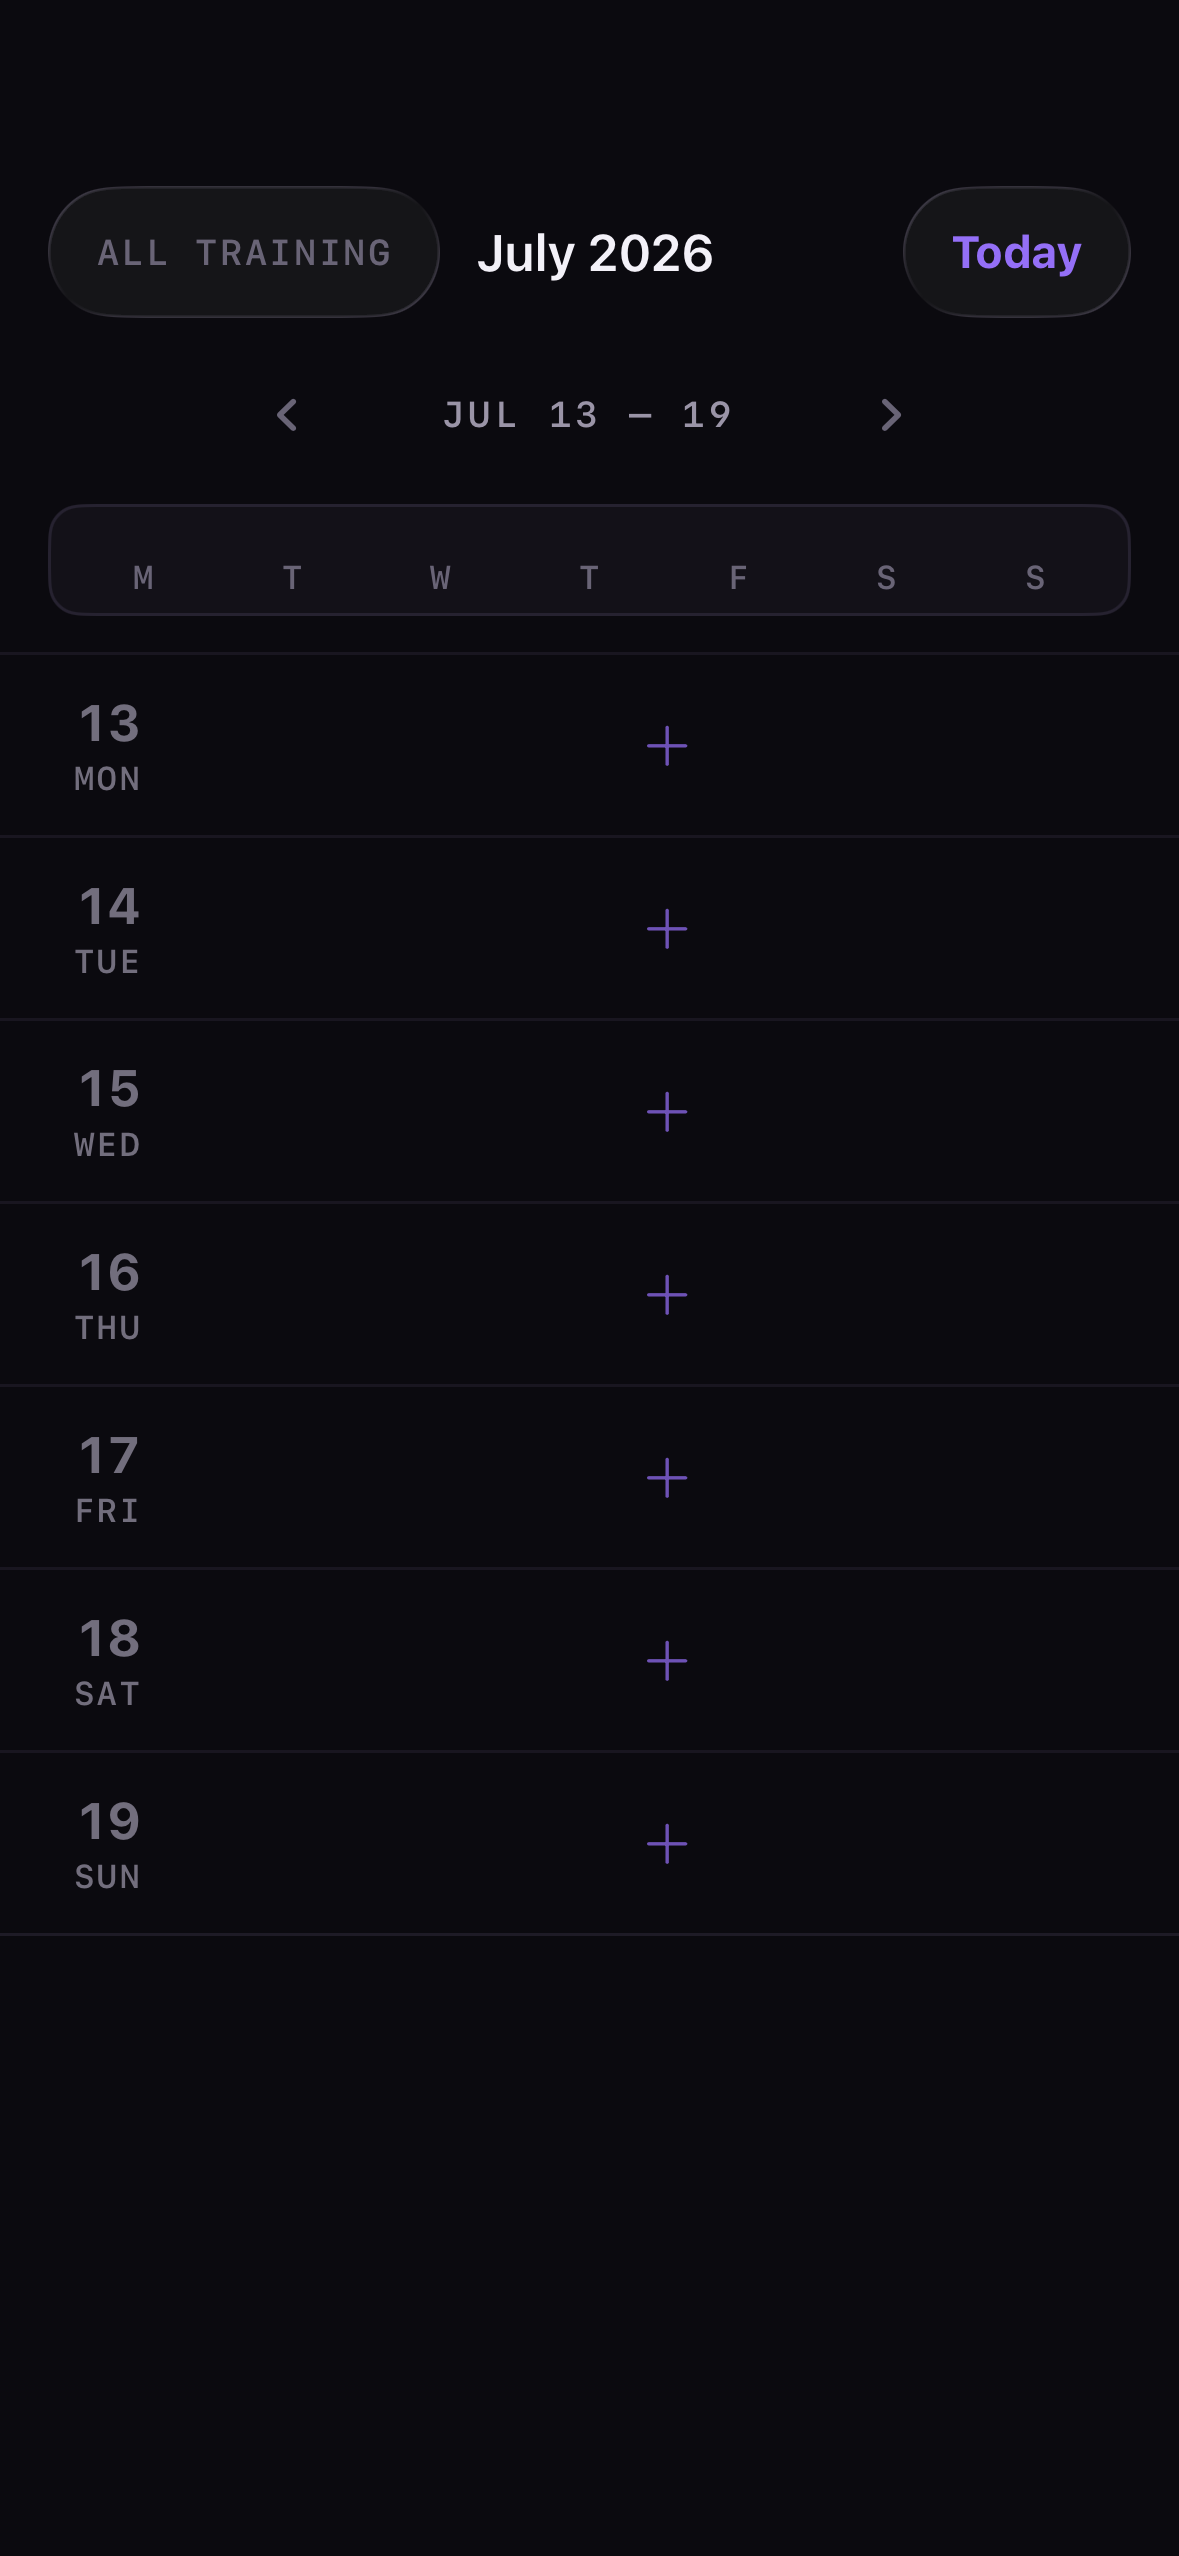
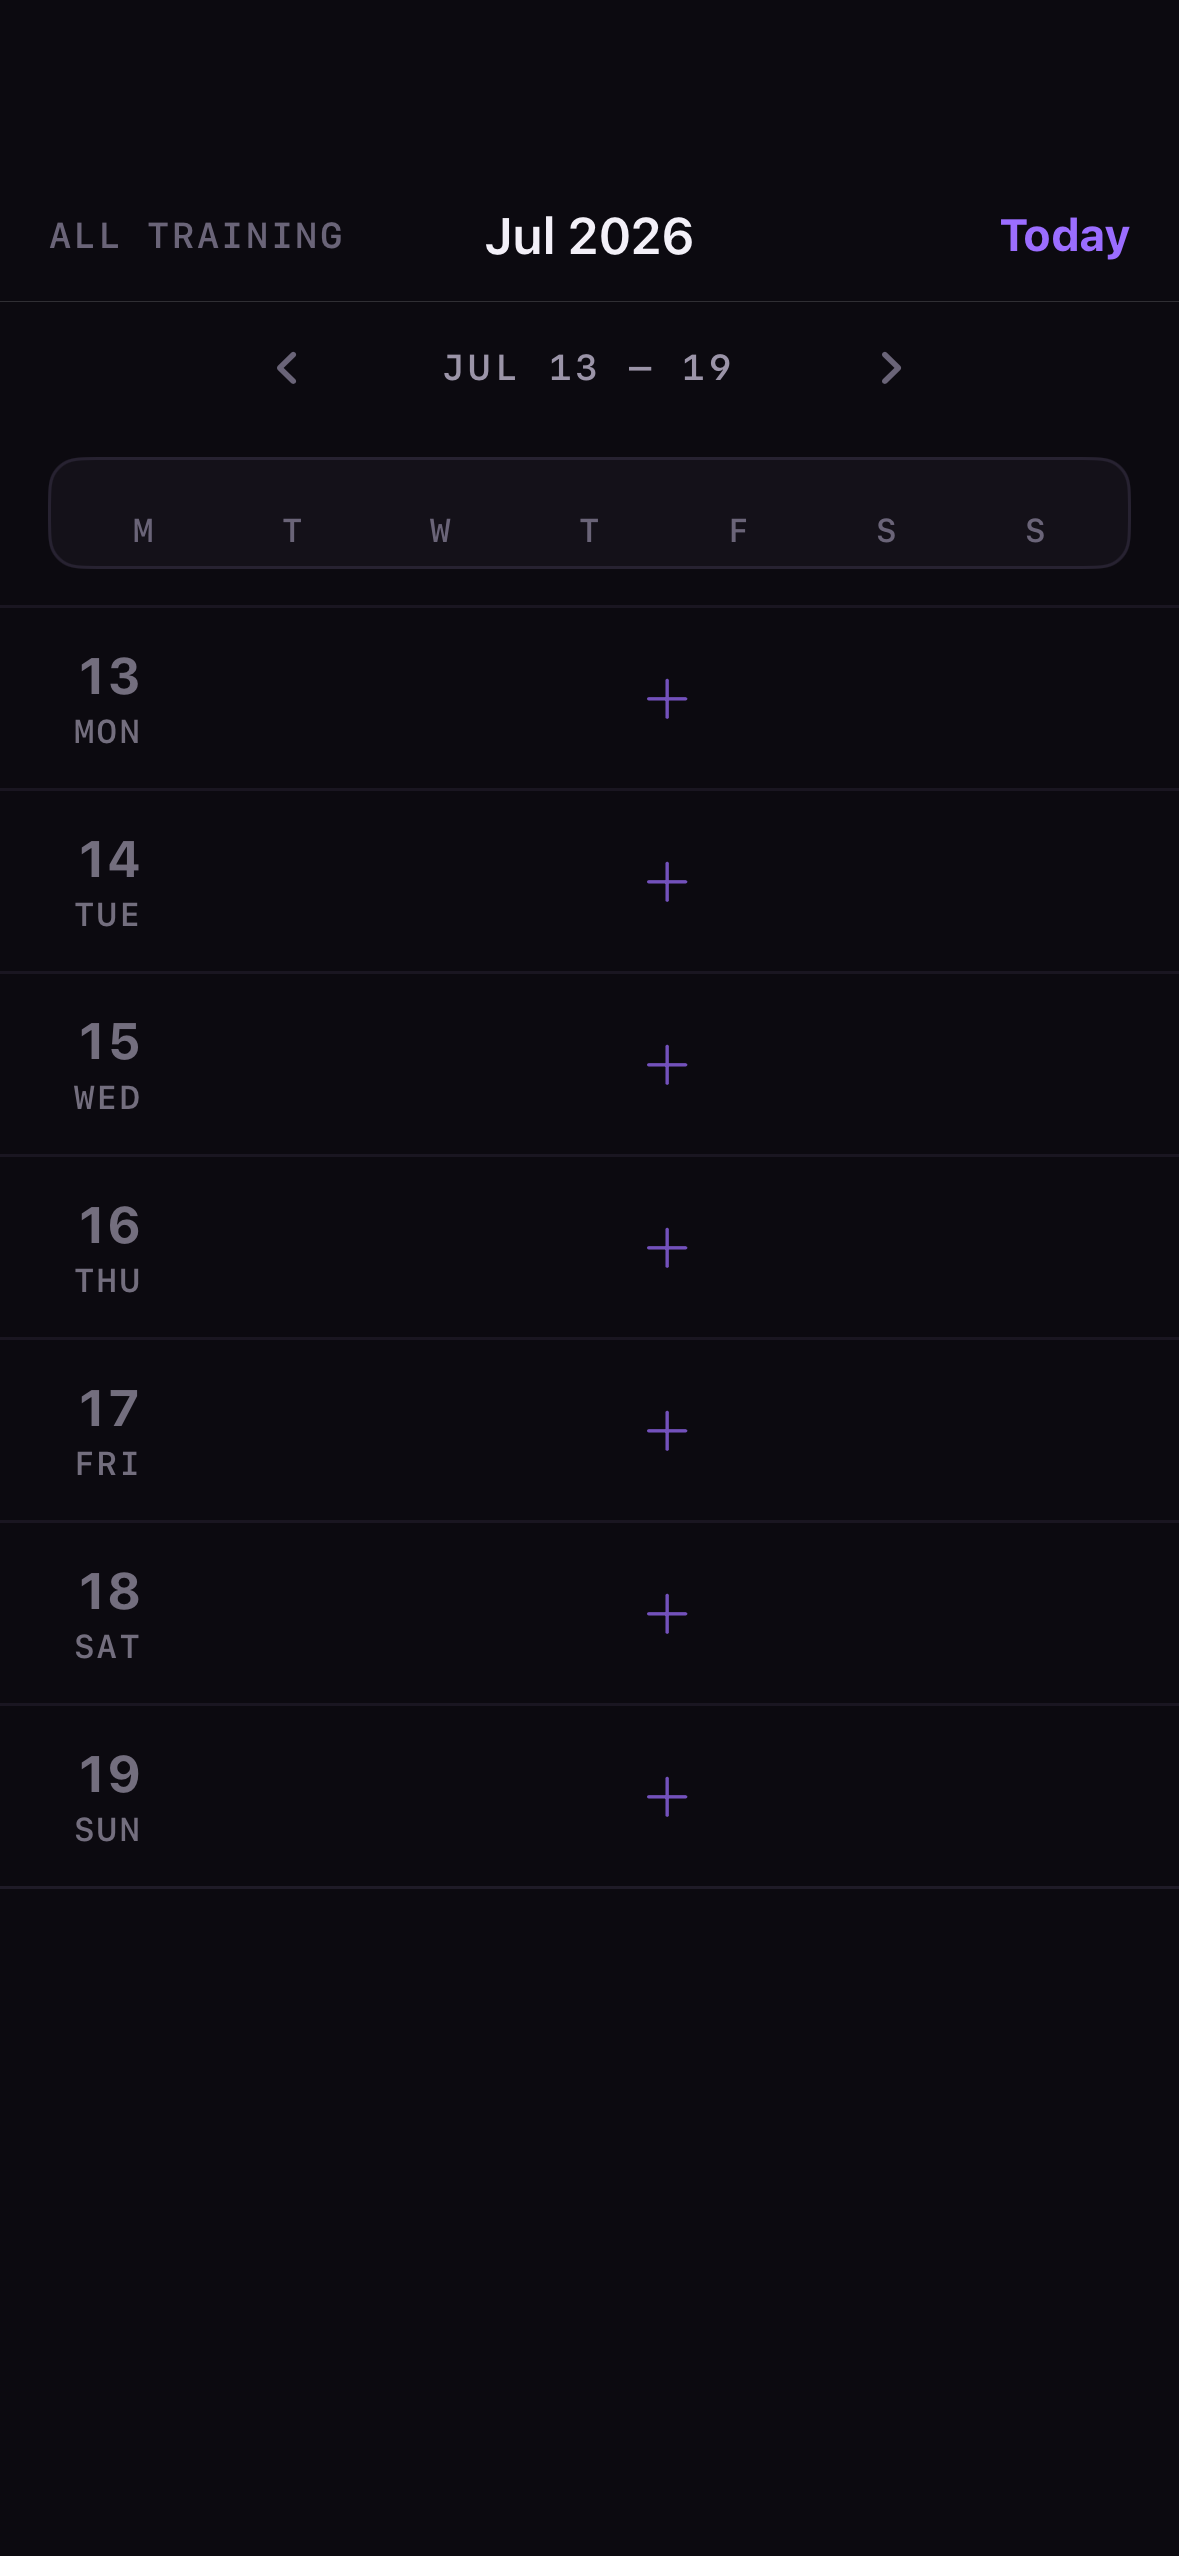
no-mistakes(review): carry visible week across rollover, shorten month label

diff --git a/BaselineTests/PlanWeeklyViewRenderTests.swift b/BaselineTests/PlanWeeklyViewRenderTests.swift
@@ -117,9 +117,10 @@ struct PlanWeeklyViewRenderTests {
         #expect(screen.element(labelled: "JUL 20 – 26") != nil, "The same week is still on screen")
     }
 
-    /// `PlanStore.week` is what "this week" means to the agent, so crossing a week boundary has to
-    /// re-anchor it - without silently paging the week the athlete chose to look at.
-    @Test func crossingIntoANewWeekReanchorsTheStoresWeekButNotTheVisibleOne() async throws {
+    /// An app left resident on the current week and foregrounded the next week must land on the real
+    /// current week - not strand the athlete on last week's grid with no day marked today - and
+    /// `PlanStore.week`, which is what "this week" means to the agent, has to follow the clock too.
+    @Test func crossingIntoANewWeekCarriesForwardAWeekTheAthleteNeverPagedAwayFrom() async throws {
         let screen = try PlanWeekScreen()
         defer { screen.tearDown() }
         try await screen.settleUntil { screen.element(labelled: "JUL 20 – 26") != nil }
@@ -128,11 +129,34 @@ struct PlanWeeklyViewRenderTests {
 
         screen.advanceClock(byDays: 7)
 
+        try await screen.settleUntil { screen.element(labelled: "JUL 27 – AUG 2") != nil }
+        #expect(screen.element(labelled: "Wednesday, today") != nil, "Today is marked again")
+        #expect(screen.count(labelled: "Add workout") == 7, "The whole new week is undecided")
         let nextWeekStart = cal.weekStart(for: cal.date(byAdding: .day, value: 7, to: Self.fixedNow)!)
-        try await screen.settleUntil { screen.element(labelled: "Wednesday, today") == nil }
         #expect(cal.isDate(screen.plan.week.startDate, inSameDayAs: nextWeekStart),
                 "The agent's \"this week\" follows the clock")
-        #expect(screen.element(labelled: "JUL 20 – 26") != nil, "The athlete's visible week stays where they left it")
+    }
+
+    /// A week the athlete deliberately paged to is theirs: crossing a week boundary re-anchors the
+    /// store behind it but never moves the grid out from under them.
+    @Test func crossingIntoANewWeekLeavesADeliberatelyPagedWeekAlone() async throws {
+        let screen = try PlanWeekScreen()
+        defer { screen.tearDown() }
+        try await screen.settleUntil { screen.element(labelled: "JUL 20 – 26") != nil }
+        let cal = Calendar.planWeek
+
+        #expect(screen.activate(labelled: "Previous week"))
+        try await screen.settleUntil { screen.element(labelled: "JUL 13 – 19") != nil }
+        #expect(cal.isDate(screen.plan.week.startDate, inSameDayAs: cal.weekStart(for: Self.fixedNow)),
+                "Paging never moves the agent's week")
+
+        screen.advanceClock(byDays: 7)
+        try await screen.settle()
+
+        #expect(screen.element(labelled: "JUL 13 – 19") != nil, "The paged week is still on screen")
+        let nextWeekStart = cal.weekStart(for: cal.date(byAdding: .day, value: 7, to: Self.fixedNow)!)
+        #expect(cal.isDate(screen.plan.week.startDate, inSameDayAs: nextWeekStart),
+                "The agent's \"this week\" still follows the clock")
     }
 
     // MARK: Regressions the redesign must not break

diff --git a/Baseline/Features/Plan/PlanView.swift b/Baseline/Features/Plan/PlanView.swift
@@ -44,8 +44,9 @@ struct PlanView: View {
     /// editor, import) never races the dismissing sheet.
     @State private var pendingAdd: (date: Date, option: AddToDayOption)?
     @State private var detailWorkout: ScheduledWorkout?
-    /// The Monday of the week on screen - the only input to what the grid shows, moved exclusively by
-    /// the pager and the Today button. Nil until the first refresh resolves it from the clock.
+    /// The Monday of the week on screen - the only input to what the grid shows. Moved by the pager,
+    /// by the Today button, and by a calendar rollover that finds the athlete still on what was then
+    /// the current week. Nil until the first refresh resolves it from the clock.
     @State private var weekStart: Date?
     /// Cached week projection, derived statuses and the built presentation. Refreshed on appear, on each
     /// plan mutation (`plan.revision`) and on week navigation - never fetched or rebuilt inside `body`.
@@ -140,7 +141,7 @@ struct PlanView: View {
             guard phase == .active else { return }
             syncToCurrentDay()
         }
-        .onReceive(NotificationCenter.default.publisher(for: .NSCalendarDayChanged)) { _ in
+        .onReceive(NotificationCenter.default.publisher(for: .NSCalendarDayChanged).receive(on: RunLoop.main)) { _ in
             syncToCurrentDay()
         }
         .task { await loadPendingImports() }
@@ -163,12 +164,23 @@ struct PlanView: View {
     }
 
     /// Brings the screen back onto the real calendar day after the clock has moved underneath it:
-    /// rebuild the day-derived cache when the day it was built for has passed, and re-anchor the
-    /// store's focused week when the current week itself has moved. The visible week stays where the
-    /// athlete left it - only the today/past marking follows the clock.
+    /// carry the visible week forward when the athlete was still sitting on what was then the current
+    /// week, re-anchor the store's focused week, and rebuild the day-derived cache when the day it was
+    /// built for has passed. A week the athlete deliberately paged to is never moved for them.
     private func syncToCurrentDay() {
+        carryVisibleWeekForward()
         reanchorFocusedWeek()
         if presentation?.today != today { refreshWeek() }
+    }
+
+    /// The cached projection records the day its rules were resolved against, which is what tells a
+    /// week the athlete chose from a week they merely left open: if the week on screen is still the
+    /// one that contained *that* day, it was the current week and the clock should carry it forward.
+    private func carryVisibleWeekForward() {
+        guard let previousDay = presentation?.today else { return }
+        let currentWeek = cal.weekStart(for: today)
+        guard cal.weekStart(for: previousDay) == focusedWeekStart, currentWeek != focusedWeekStart else { return }
+        weekStart = currentWeek
     }
 
     /// `PlanStore.week` is what "this week" means to the agent and to every non-calendar consumer, so

diff --git a/BaselineTests/PlanWeekPresentationTests.swift b/BaselineTests/PlanWeekPresentationTests.swift
@@ -210,16 +210,23 @@ struct PlanWeekPresentationTests {
     /// "JUL 27 – AUG 2" titled "July 2026" names a month six of its seven days are not in.
     @Test func theMonthLabelNamesEveryMonthTheVisibleWeekCovers() {
         let july = TrainingWeek(startDate: cal.weekStart(for: dateFrom(2026, 7, 22)), days: [])
-        #expect(build(july).monthLabel == "July 2026")
+        #expect(build(july).monthLabel == "Jul 2026")
 
         let straddling = TrainingWeek(startDate: cal.weekStart(for: dateFrom(2026, 7, 30)), days: [])
-        #expect(build(straddling).monthLabel == "July – August 2026")
+        #expect(build(straddling).monthLabel == "Jul – Aug 2026")
     }
 
     /// A week straddling New Year names both years, so the title is never ambiguous.
     @Test func theMonthLabelNamesBothYearsAcrossTheTurnOfTheYear() {
         let newYear = TrainingWeek(startDate: cal.weekStart(for: dateFrom(2026, 12, 31)), days: [])
-        #expect(build(newYear).monthLabel == "December 2026 – January 2027")
+        #expect(build(newYear).monthLabel == "Dec 2026 – Jan 2027")
+    }
+
+    /// The title sits in the principal toolbar slot between the filter chip and Today, so even the
+    /// longest form has to stay short - abbreviated months are what keeps it from truncating there.
+    @Test func theMonthLabelStaysShortEnoughForThePrincipalToolbarSlot() {
+        let widest = TrainingWeek(startDate: cal.weekStart(for: dateFrom(2026, 12, 31)), days: [])
+        #expect(build(widest).monthLabel.count <= 20)
     }
 
     // MARK: The day the projection was built for

diff --git a/Baseline/Features/Plan/PlanWeekPresentation.swift b/Baseline/Features/Plan/PlanWeekPresentation.swift
@@ -150,17 +150,19 @@ struct PlanWeekPresentation: Equatable, Sendable {
     }
 
     /// The navigation title names the months the visible week actually covers, exactly like
-    /// `rangeLabel` does: a week running "JUL 27 – AUG 2" is not a July week.
+    /// `rangeLabel` does: a week running "JUL 27 – AUG 2" is not a July week. Months are abbreviated
+    /// so a straddling week ("Jul – Aug 2026") still fits the principal toolbar slot between the
+    /// filter chip and Today.
     static func monthLabel(weekStart: Date, calendar: Calendar = .planWeek) -> String {
         let start = calendar.startOfDay(for: weekStart)
         let end = calendar.date(byAdding: .day, value: 6, to: start) ?? start
         guard calendar.component(.month, from: start) != calendar.component(.month, from: end) else {
-            return start.formatted(.dateTime.month(.wide).year())
+            return start.formatted(.dateTime.month(.abbreviated).year())
         }
         let startText = calendar.component(.year, from: start) == calendar.component(.year, from: end)
-            ? start.formatted(.dateTime.month(.wide))
-            : start.formatted(.dateTime.month(.wide).year())
-        return "\(startText) – \(end.formatted(.dateTime.month(.wide).year()))"
+            ? start.formatted(.dateTime.month(.abbreviated))
+            : start.formatted(.dateTime.month(.abbreviated).year())
+        return "\(startText) – \(end.formatted(.dateTime.month(.abbreviated).year()))"
     }
 
     private static func rangeLabel(weekStart: Date, calendar: Calendar) -> String {

diff --git a/docs/implementation/plan-tab.md b/docs/implementation/plan-tab.md
@@ -115,10 +115,12 @@ departures from what this document specifies:
   follow-up); rest and undecided days state themselves; today is marked by its accent date alone, with
   every other day slightly muted. No status chip on a performed or planned row, and no trailing modality
   glyph (the unexplained ◆/clock).
-- **The visible week is owned state**, moved only by the `‹ ›` pager and Today - never inferred from
-  scroll geometry, which is what let the old range header jump weeks. `PlanView` browses through
-  `PlanStore.week(containing:)`; `PlanStore.focusedDate`/`week` stay anchored to the real current week
-  because that is what "this week" means to the agent tools.
+- **The visible week is owned state**, moved by the `‹ ›` pager, by Today, and by a calendar rollover
+  that finds the athlete still on what was then the current week - never inferred from scroll geometry,
+  which is what let the old range header jump weeks. A week the athlete deliberately paged to is left
+  alone across a rollover. `PlanView` browses through `PlanStore.week(containing:)`;
+  `PlanStore.focusedDate`/`week` stay anchored to the real current week because that is what "this week"
+  means to the agent tools.
 - Components in `Baseline/Features/Plan/`: `PlanView` + `PlanWeekPresentation` (the pure day-state model
   every rule is tested against, `BaselineTests/PlanWeekPresentationTests.swift`).
 
